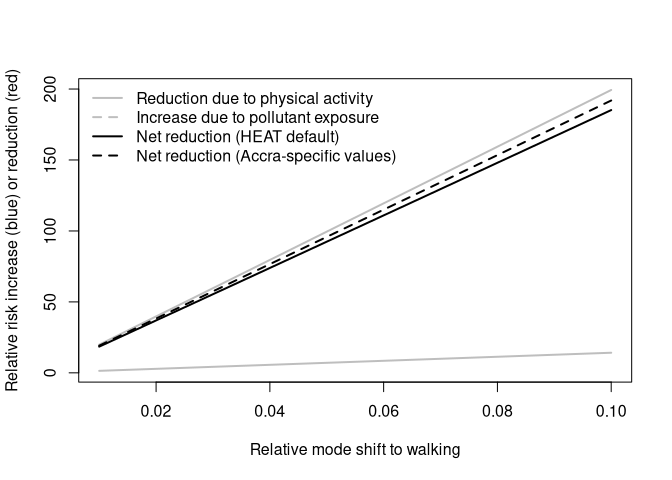
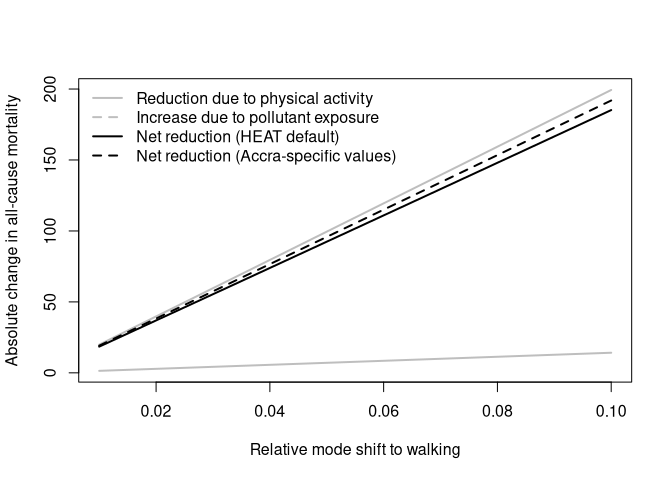
change fig axis title

Changed region(s): [[0.0, 0.1562, 0.0312, 0.8125]]

diff --git a/health-econ/README.md b/health-econ/README.md
@@ -249,7 +249,7 @@ x_accra <- exposure (1:10 / 100, accra_pop, mortality, rel_exp = "xx")
 ylims <- range (c (x$d_mortality, x$d_exposure))
 plot (x$mode_shift, x$d_mortality, "l", col = "grey", lwd = 2, ylim = ylims,
       xlab = "Relative mode shift to walking",
-      ylab = "Relative risk increase (blue) or reduction (red)")
+      ylab = "Absolute change in all-cause mortality")
 lines (x$mode_shift, x$d_exposure, col = "grey", lwd = 2)
 lines (x$mode_shift, x$d_net, lwd = 2)
 lines (x$mode_shift, x_accra$d_net, lwd = 2, lty = 2)
